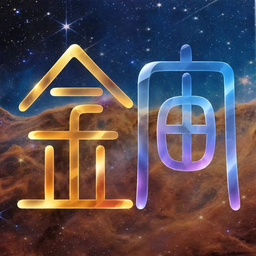
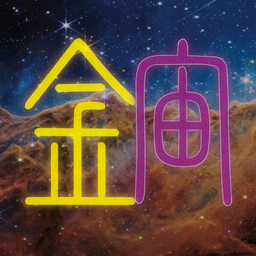
chore: 更换站点图标

diff --git a/article.html b/article.html
@@ -13,7 +13,7 @@
 <meta property="og:title" content="文章 | zhoujin.site">
 <meta property="og:url" content="https://zhoujin.site/article.html">
 
-<link rel="icon" href="assets/favicon.png?v=20261031f" type="image/png">
+<link rel="icon" href="assets/favicon.png?v=20261031g" type="image/png">
 <link rel="stylesheet" href="assets/styles.css?v=20261031d">
 
 <script>document.documentElement.classList.add('js');</script>
@@ -24,7 +24,7 @@
 <header class="site-header" id="site-header">
   <div class="wrap header-inner">
     <a class="brand" href="index.html" aria-label="返回首页">
-      <img class="brand-mark" src="assets/icon.png" alt="宙金" width="34" height="34">
+      <img class="brand-mark" src="assets/icon.png?v=20261031g" alt="宙金" width="34" height="34">
       <span class="brand-name">zhoujin.site</span>
     </a>
 

diff --git a/index.html b/index.html
@@ -17,7 +17,7 @@
 <meta property="og:locale" content="zh_CN">
 <meta name="twitter:card" content="summary_large_image">
 
-<link rel="icon" href="assets/favicon.png?v=20261031f" type="image/png">
+<link rel="icon" href="assets/favicon.png?v=20261031g" type="image/png">
 <link rel="stylesheet" href="assets/styles.css?v=20261031f">
 
 <!-- 尽早标记 js，避免动画元素先显示再隐藏 -->
@@ -29,7 +29,7 @@
 <header class="site-header" id="site-header">
   <div class="wrap header-inner">
     <a class="brand" href="#top" aria-label="回到顶部">
-      <img class="brand-mark" src="assets/icon.png" alt="宙金" width="34" height="34">
+      <img class="brand-mark" src="assets/icon.png?v=20261031g" alt="宙金" width="34" height="34">
       <span class="brand-name">zhoujin.site</span>
     </a>
 

diff --git a/404.html b/404.html
@@ -6,7 +6,7 @@
 <title>404 · 页面走丢了 | zhoujin.site</title>
 <meta name="robots" content="noindex">
 <meta name="theme-color" content="#050507">
-<link rel="icon" href="/assets/favicon.png" type="image/png">
+<link rel="icon" href="/assets/favicon.png?v=20261031g" type="image/png">
 <link rel="stylesheet" href="/assets/styles.css">
 <style>
   .nf {
